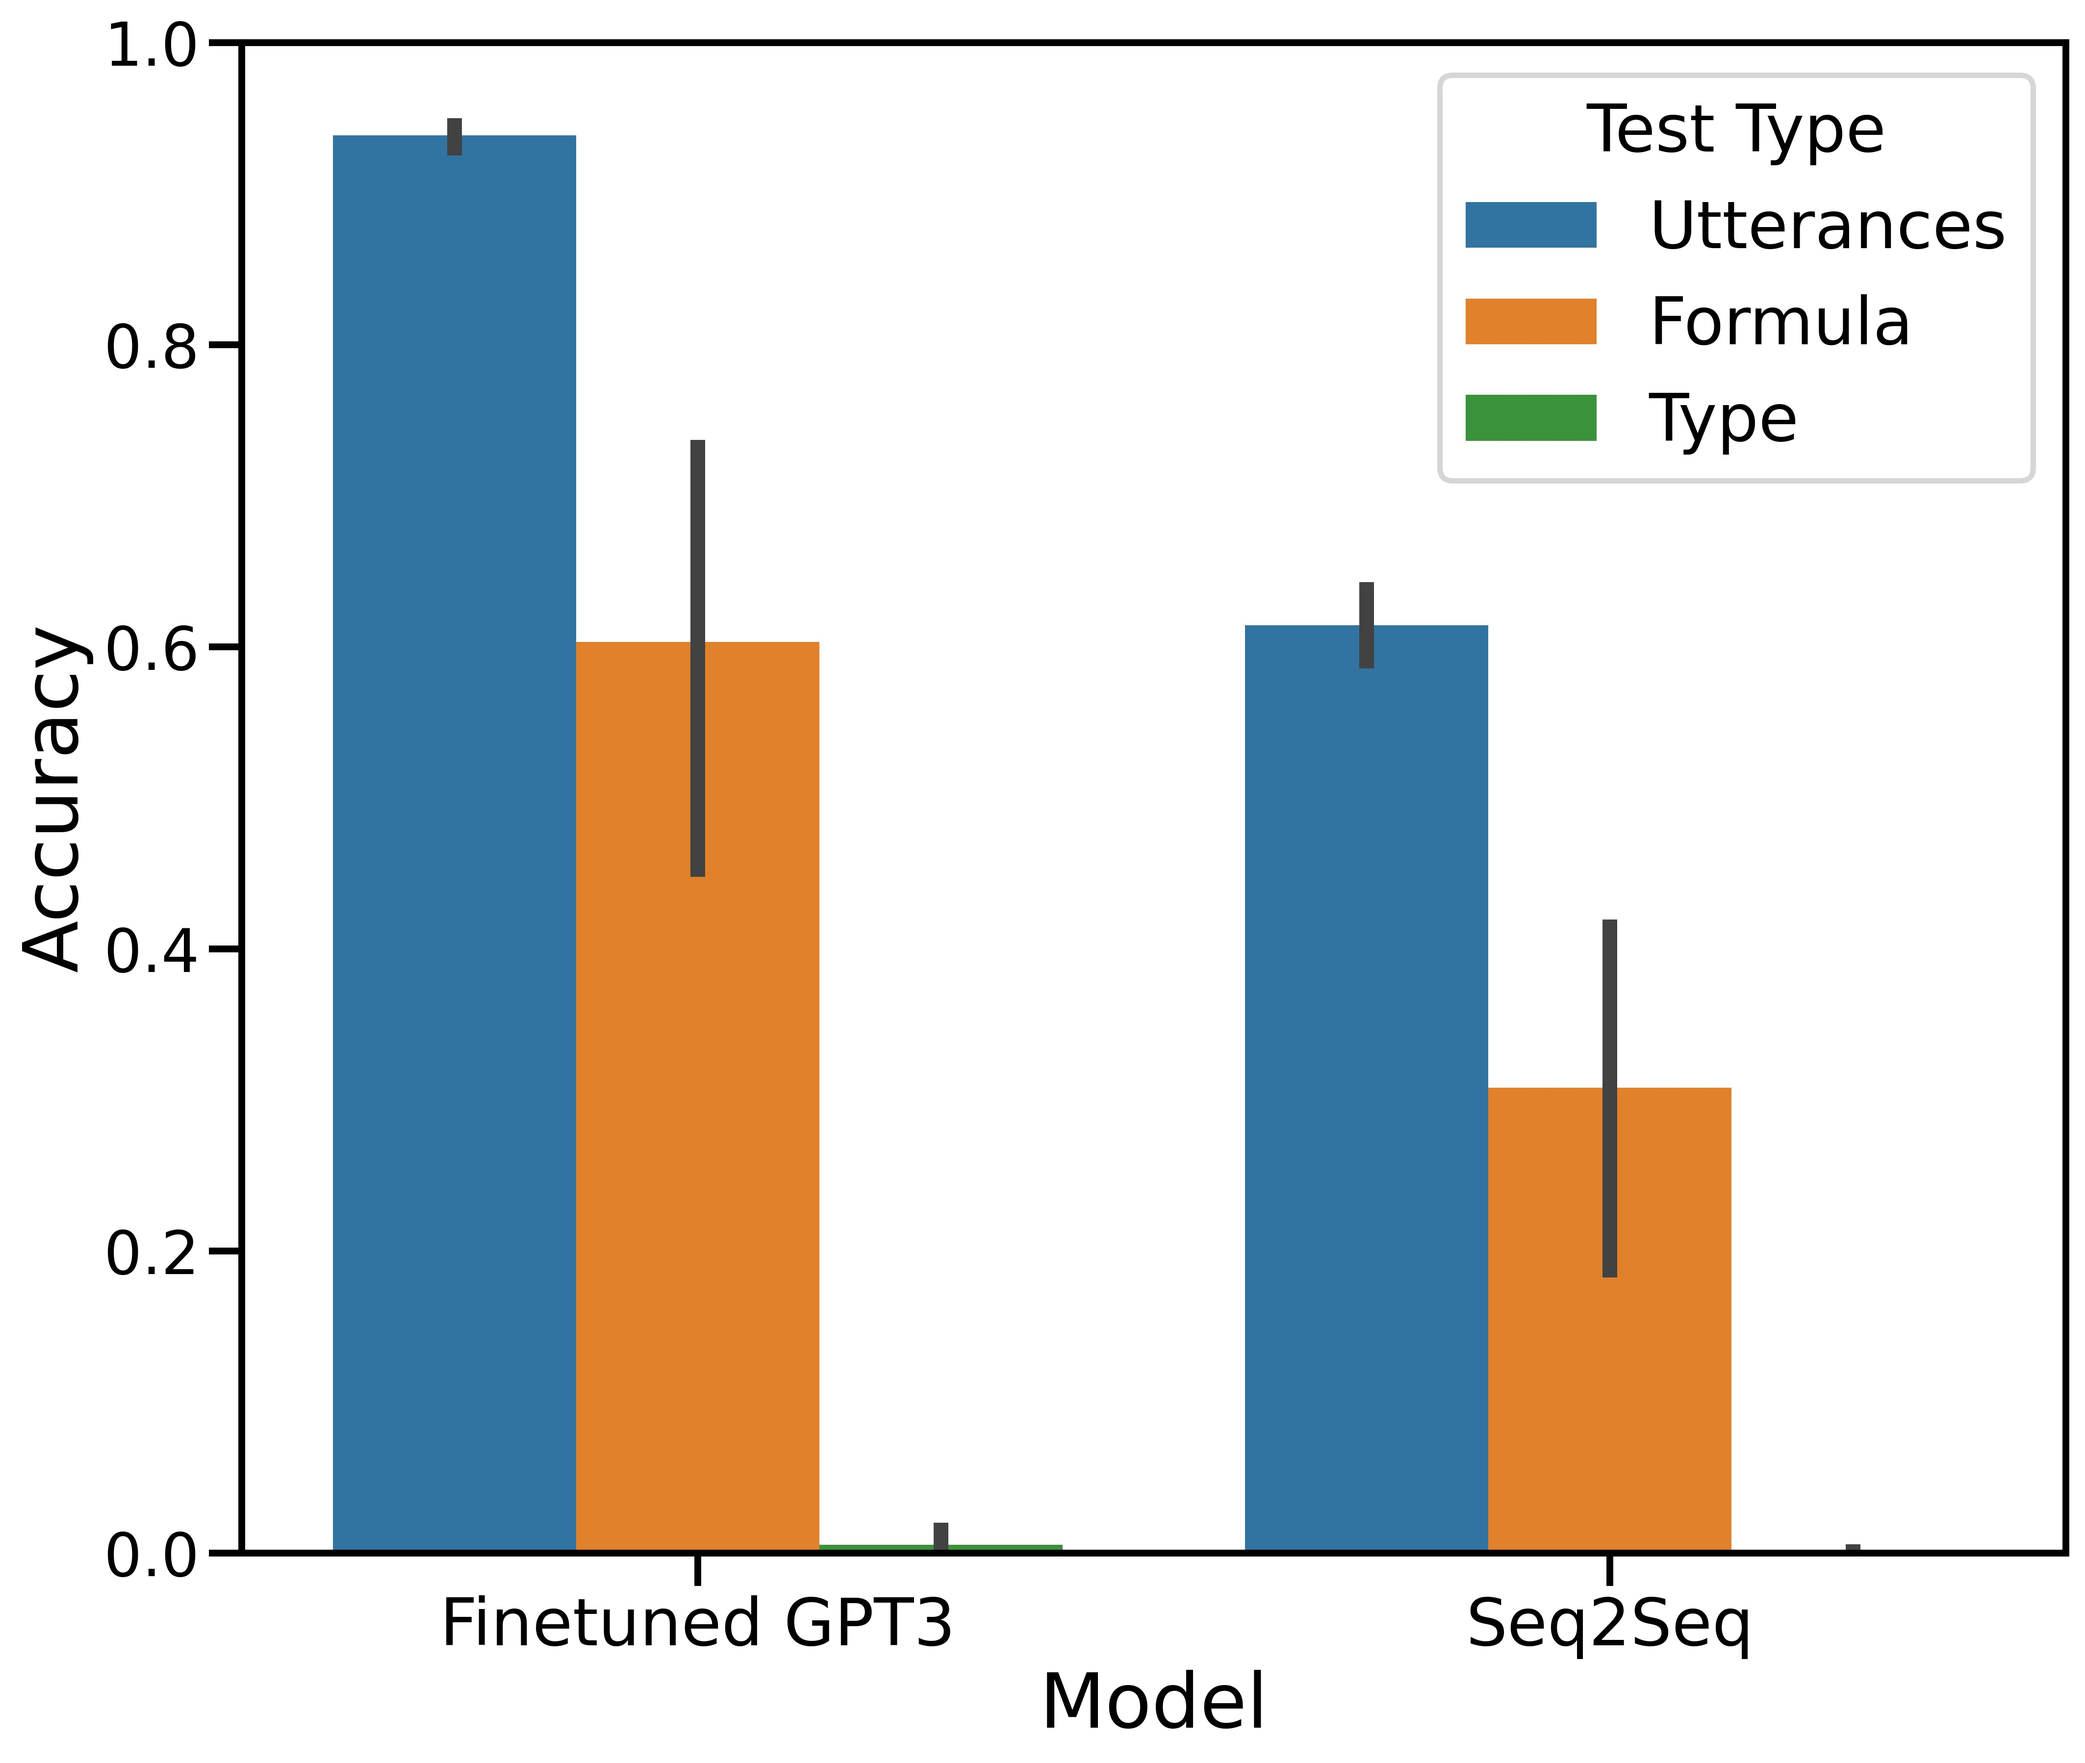
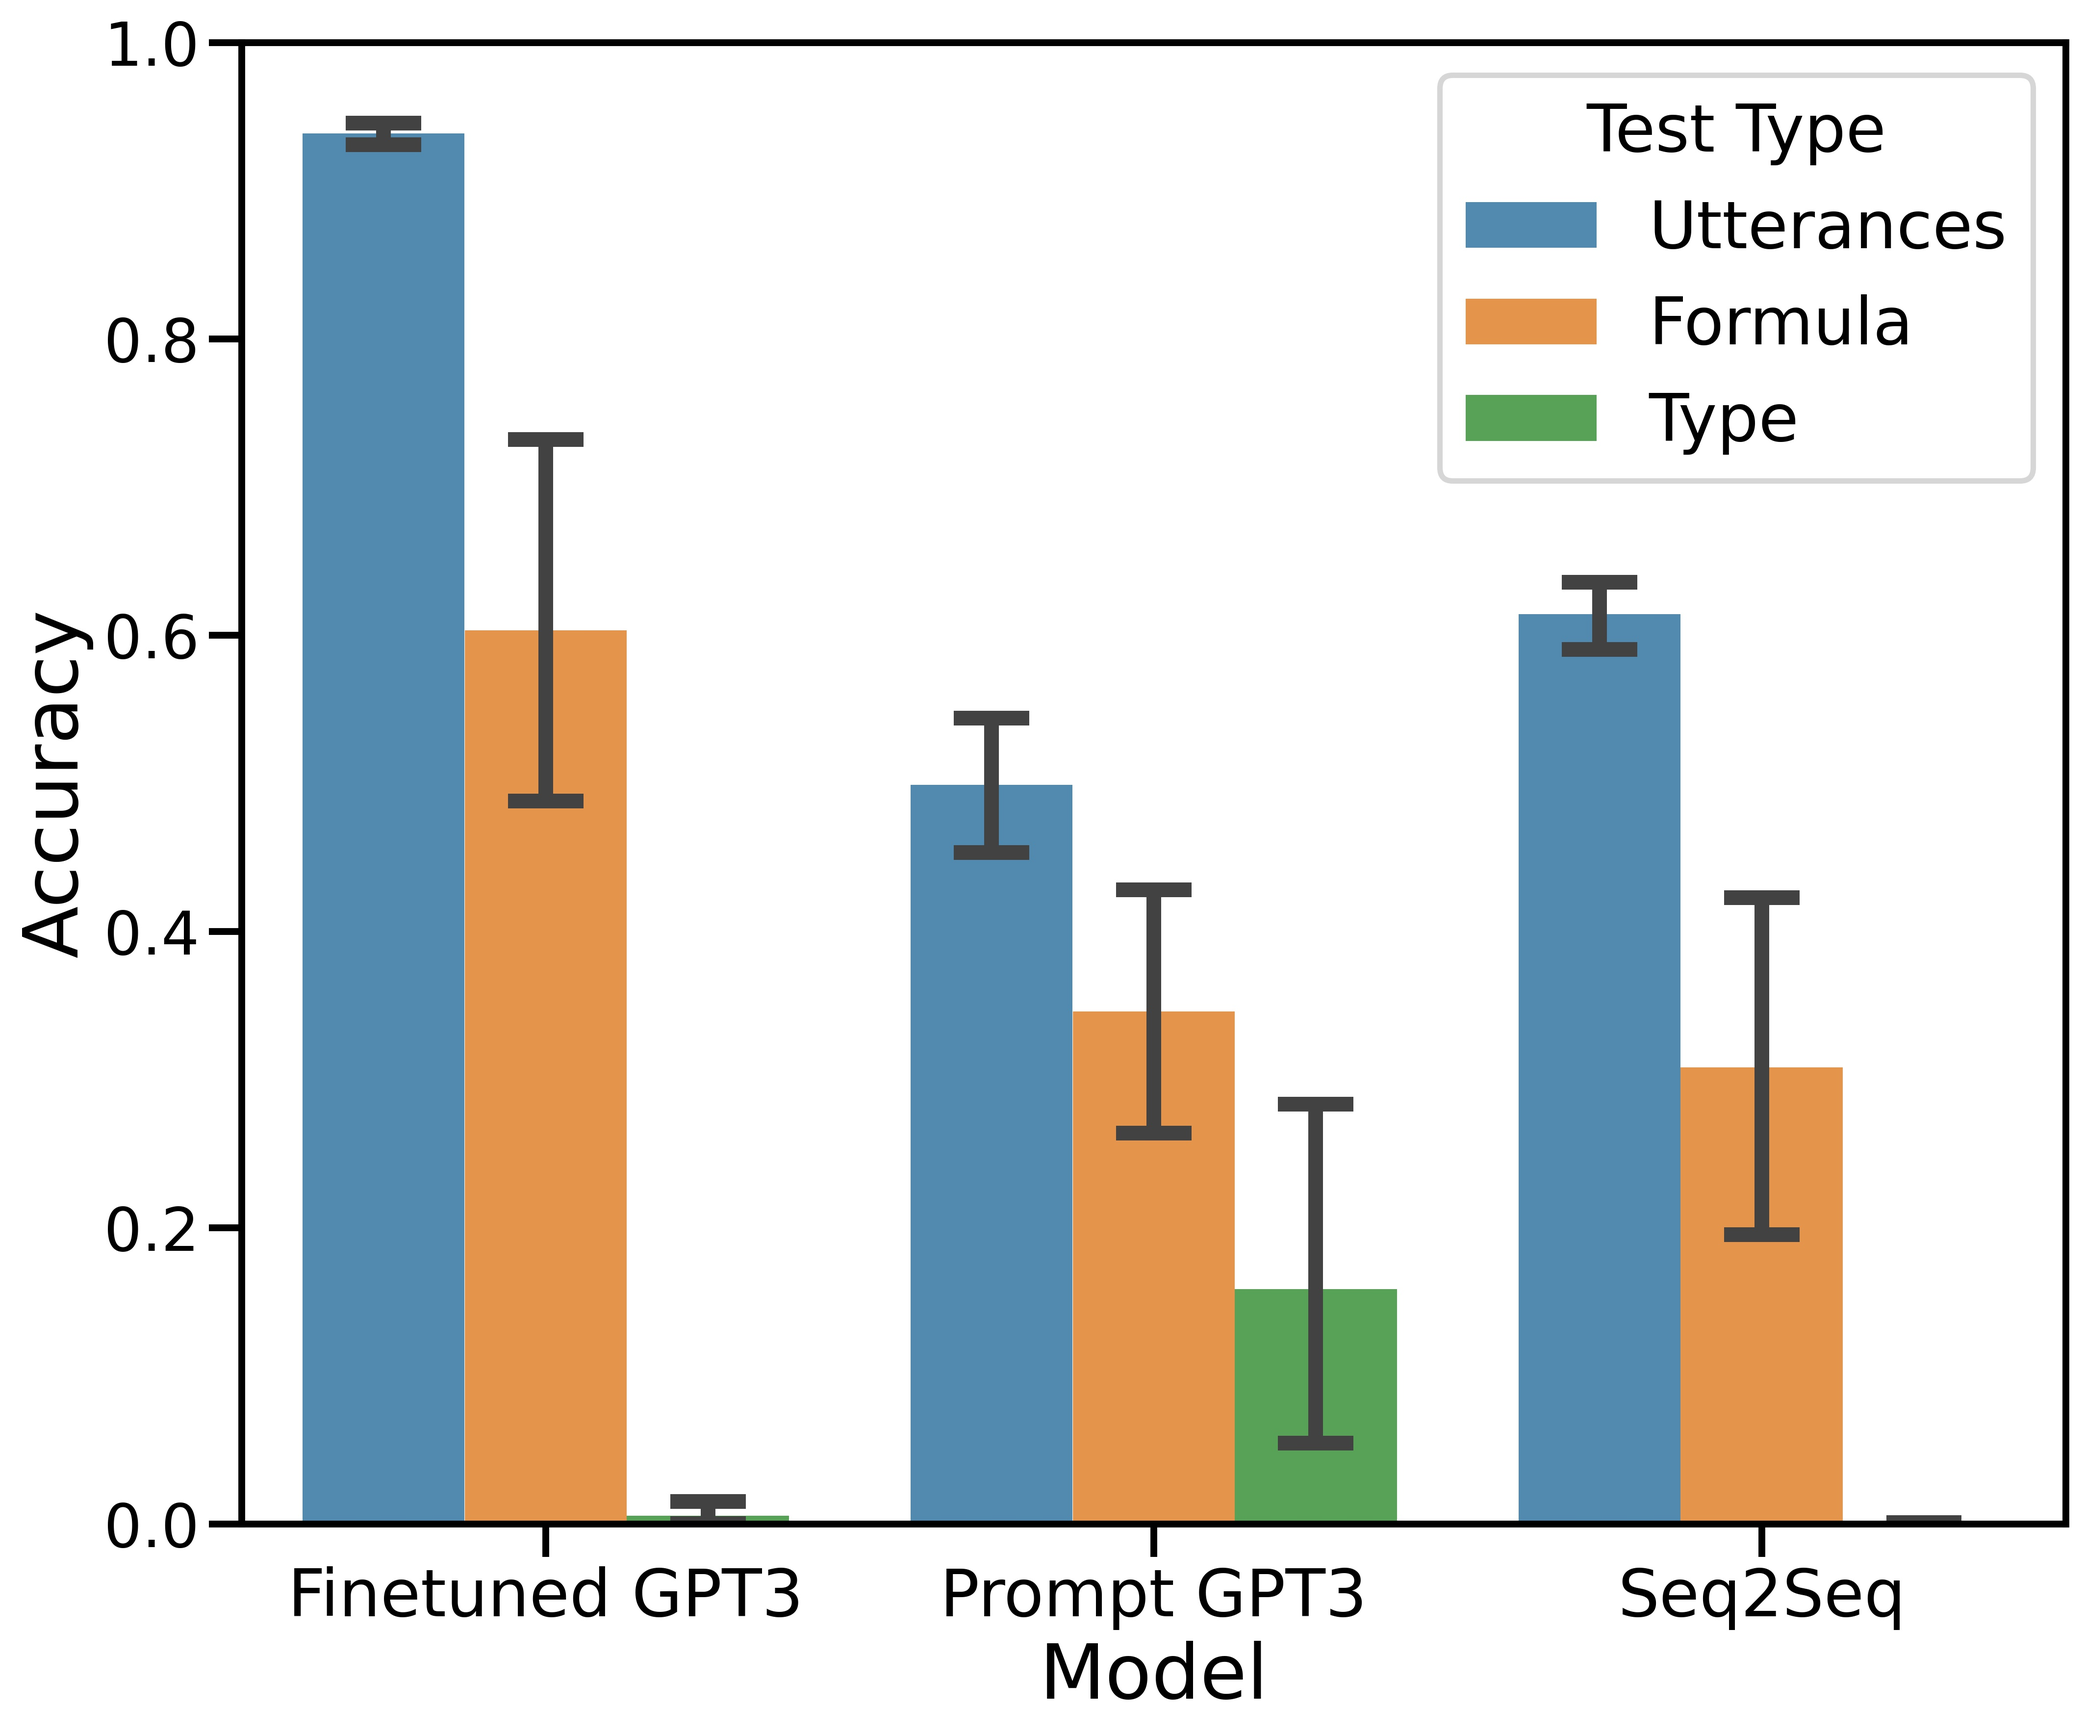
plots on symbolic accuracy

diff --git a/plot_results.py b/plot_results.py
@@ -11,15 +11,26 @@ from results_analysis import *
 RESULT_DPATH = './figures'
 rc = {'axes.labelsize': 28, 'axes.titlesize': 32, 'legend.fontsize': 24, 'xtick.labelsize': 24, 'ytick.labelsize': 22}
 
-def plot_symbolic_accuracies():
-    df = create_symbolic_accuracies_table(test_types = SYMBOLIC_TEST_TYPES, model_types = ['finetuned_gpt3','s2s_pt_transformer'])
+def plot_symbolic_accuracies1():
+    df = create_symbolic_accuracies_table(test_types = SYMBOLIC_TEST_TYPES, model_types = SYMBOLIC_MODEL_TYPES)
     with sns.plotting_context('poster', rc=rc):
        plt.figure(figsize=[12, 10])
-       sns.barplot(data = df, x = 'Model',y = 'Accuracy',hue = 'Test Type')
+       sns.barplot(data = df, x = 'Model',y = 'Accuracy',hue = 'Test Type', alpha = 0.85, capsize = 0.1)
        plt.ylim([0,1])
        plt.savefig('figures/symbolic_accuracies.jpg', dpi=400, bbox_inches='tight')
        plt.show()
 
+
+def plot_symbolic_accuracies2():
+    df = create_symbolic_accuracies_table(test_types = SYMBOLIC_TEST_TYPES, model_types = SYMBOLIC_MODEL_TYPES)
+    with sns.plotting_context('poster', rc=rc):
+       plt.figure(figsize=[12, 10])
+       sns.barplot(data = df, x = 'Test Type',y = 'Accuracy',hue = 'Model', alpha = 0.85, capsize = 0.1)
+       plt.ylim([0,1])
+       plt.savefig('figures/symbolic_accuracies2.jpg', dpi=400, bbox_inches='tight')
+       plt.show()
+
     
 if __name__ == '__main__':
-    plot_symbolic_accuracies()
+    plot_symbolic_accuracies1()
+    plot_symbolic_accuracies2()
